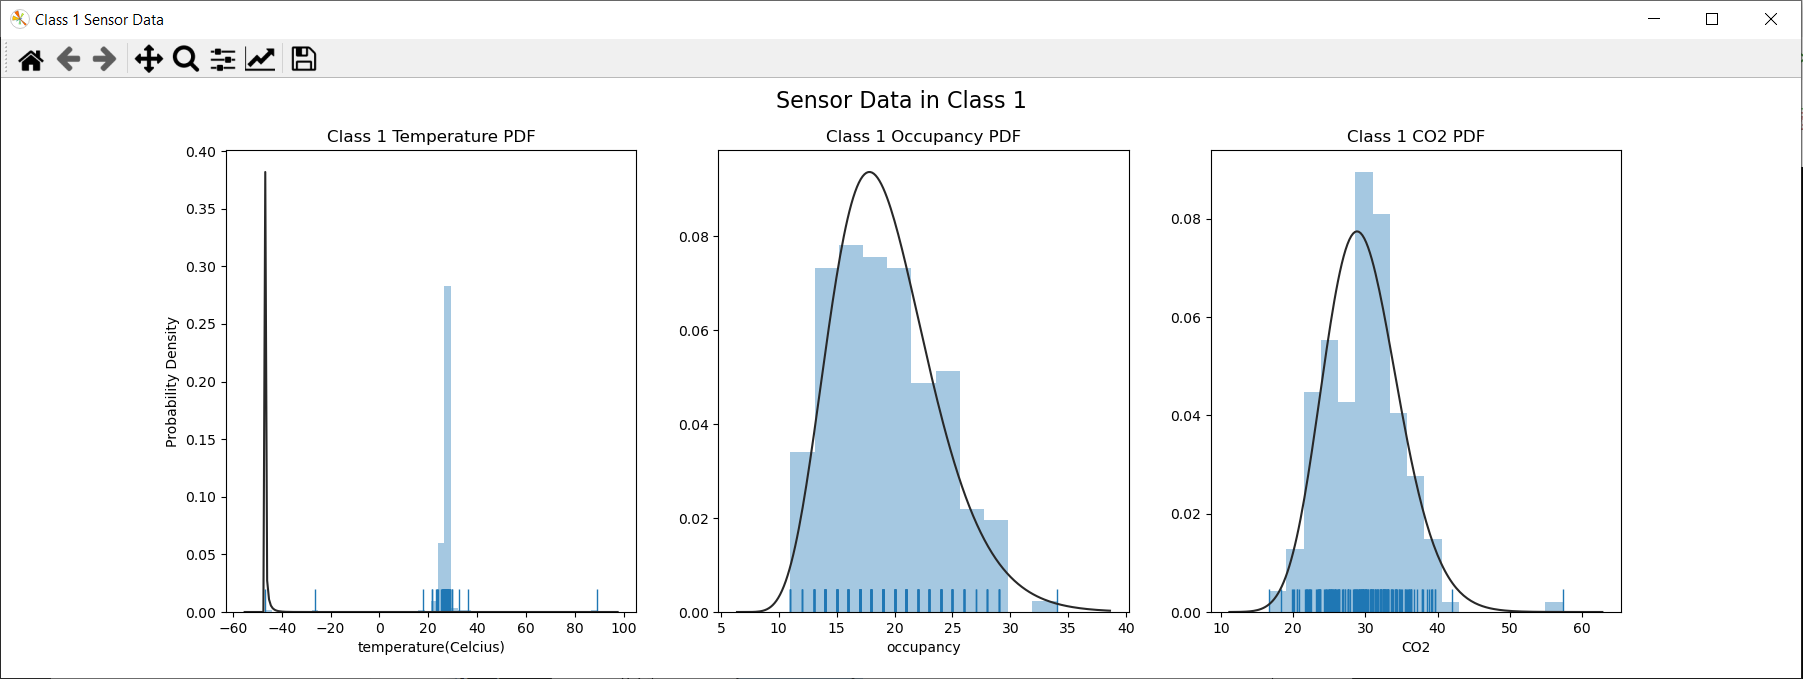
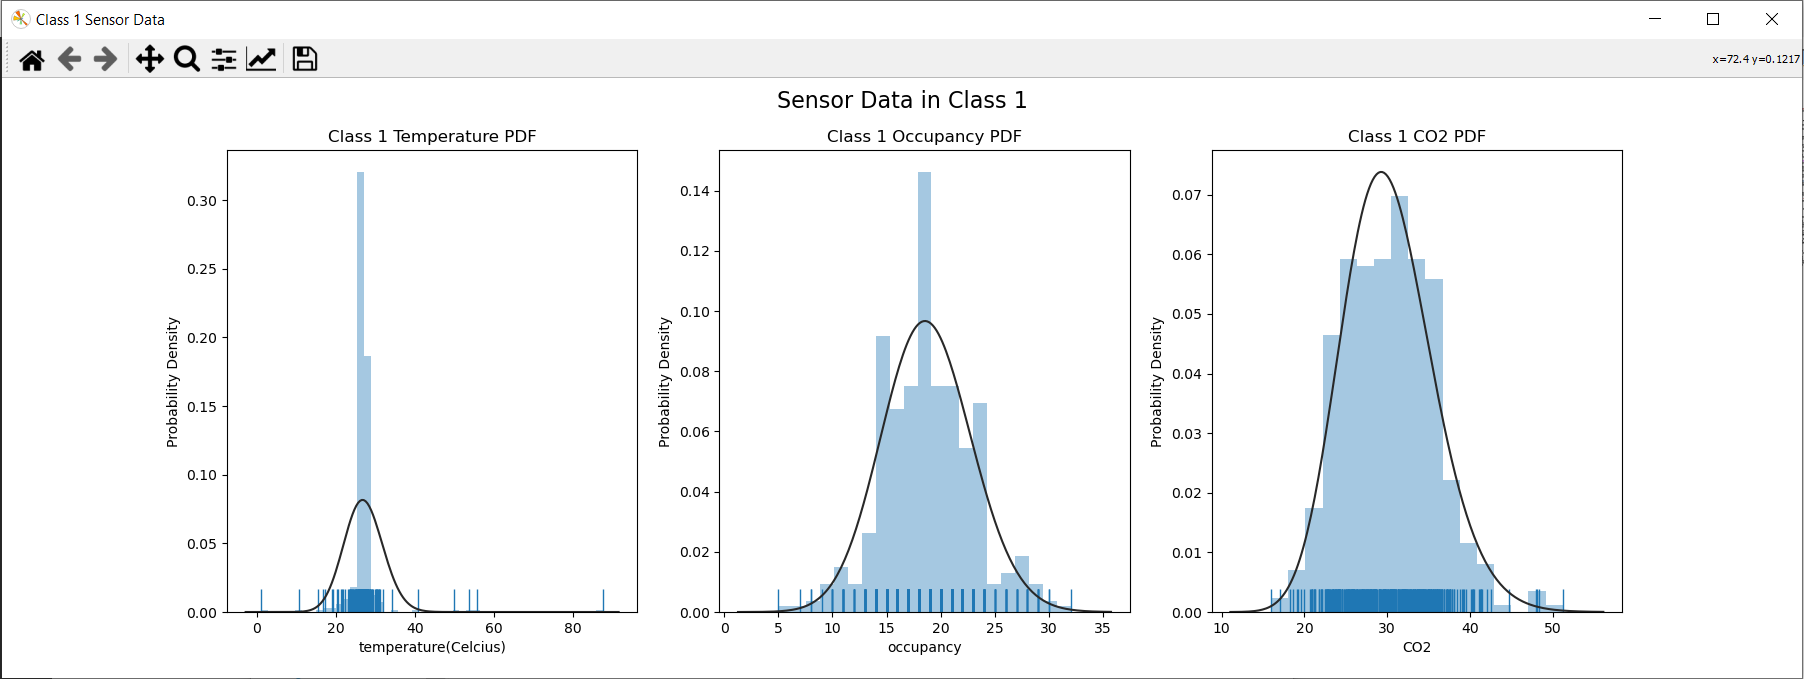
minor changes
set y labels in analyze.py
fix some typo
update report.md

diff --git a/analyze.py b/analyze.py
@@ -63,26 +63,23 @@ if __name__ == "__main__":
 
     timediff = np.diff(data["co2"].index.values).astype(np.int64) / 1000000000 # time diff in sec
 
-
     print("Median temperature in class 1: ", end='')
-    print('%5.2f' % (class1temp.median()))
+    print('%5.4f' % (class1temp.median()))
     print("Variance in temperature in class 1: ", end='')
-    print('%5.2f' % (class1temp.var()))
+    print('%5.4f' % (class1temp.var()))
     print()
     print("Median occupancy in class 1: ", end='')
-    print('%5.2f' % (class1occu.median()))
+    print('%5.4f' % (class1occu.median()))
     print("Variance in occupancy in class 1: ", end='')
-    print('%5.2f' % (class1occu.var()))
+    print('%5.4f' % (class1occu.var()))
     print()
 
     print("Median of time intervals: ", end='')
-    print('%9.4f' % (np.median(timediff)))
+    print('%5.4f' % (np.median(timediff)))
     print("Variance in time intervals: ", end='')
-    print('%9.4f' % (np.var(timediff)))
+    print('%5.4f' % (np.var(timediff)))
     print()
 
-    print("The probability density function of time intervals mimic log-normal distribution. ")
-    print("Log-normal distribution is used when analyzing stock prices and semiconductor lifetime.")
 
     # Plot PDF for sensor data in Class 1
     class1 = plt.figure("Class 1 Sensor Data", figsize=(18, 6))
@@ -95,10 +92,12 @@ if __name__ == "__main__":
 
     ax2 = class1.add_subplot(132)
     ax2.title.set_text('Class 1 Occupancy PDF')
+    ax2.set_ylabel('Probability Density')
     sns.distplot(class1occu, kde=False, fit=stats.gamma, rug=True)
 
     ax3 = class1.add_subplot(133)
     ax3.title.set_text('Class 1 CO2 PDF')
+    ax3.set_ylabel('Probability Density')
     sns.distplot(class1co2, kde=False, fit=stats.gamma, rug=True)
 
     ax1.set_xlabel('temperature(Celcius)')

diff --git a/detector.py b/detector.py
@@ -32,19 +32,19 @@ def detect_anomalies(data):
     class_std_dev= classdf.std()
     upper_limit = class_mean + class_std_dev
     lower_limit = class_mean - class_std_dev
-    class_size=len(classdf)
+    class_size = len(classdf)
 
     ibad = (classdf<lower_limit)|(classdf>upper_limit)
     classdf = classdf.loc[~ibad]
-    new_median=classdf.median()
-    new_var=classdf.var()
-    anomalies=sum(ibad)
+    new_median = classdf.median()
+    new_var = classdf.var()
+    anomalies = sum(ibad)
 
-    print("\nThe percent of \"bad\" data points for class1 is "+str((anomalies/class_size)*100)+"%")
+    print("\nThe percentage of \"bad\" data points for class1 is "+ ('%5.4f' % ((anomalies/class_size)*100))+"%")
     print("The temperature median and variance with these anomalies removed are,")
-    print("Median:"+str(new_median)+"\nVariance:"+str(new_var))
-    print("\nIn comparison the median and variance with these anomallies are,")
-    print("Median:"+str(class_median)+"\nVariance:"+str(class_var)+"\n")
+    print("Median: "+('%5.4f' % new_median)+"\nVariance: "+('%5.4f' % new_var))
+    print("\nIn comparison the median and variance with these anomalies are,")
+    print("Median: "+('%5.4f' % class_median)+"\nVariance: "+('%5.4f' % class_var))
 
 if __name__ == "__main__":
     p = argparse.ArgumentParser(description="load and analyse IoT JSON data")

diff --git a/Report.md b/Report.md
@@ -1,19 +1,69 @@
-# Task 0
-After running the Python code on our computers, the greeting string issued by the server to the client upon first connecting is "ECE Senior Capstone IoT Simulator"
-![](images/Task0image.PNG)
+# MiniProject – Sensor Simulation
+Authors: Ivan Barcenes, Yuting Chen
 
-# Task 1
-Python code was added to the websocker client that saves JSON data to a text file as it comes in message by message. The name of this file is "client_data.txt". This file was added to the repo.
-# Task 2
-# Task 3
+2020-09-17
+
+## Task 0
+After running the Python code on our computers, the greeting string issued by the server to the client upon first connecting is 
+```sh
+ECE Senior Capstone IoT simulator
+```
+<center><img src="./images/Task0image.PNG" width="70%" /></center>  
+
+
+## Task 1
+Python code was added to the websocket client that saves JSON data to a text file as it comes in message by message. The name of this file is "client_data.txt". This file was added to the repo.
+
+## Task 2
+Now we have all sensor data in "client_data.txt". We then analyze the temperature and occupancy data in class 1 by using Pandas. Then we use seaborn to plot the probability density function for the three sensors in class1.
+```sh
+----------Calculate medians and variances----------
+
+Median temperature in class 1: 26.9858
+Variance in temperature in class 1: 19.2407
+
+Median occupancy in class 1: 19.0000
+Variance in occupancy in class 1: 17.1122
+```
+![](images/SensorData.PNG)
+After that, we calculate the median and variance of time intervals of all sensor readings. Here we use Numpy, as the time index array is a ndarray. We then use seaborn to plot the probability density function. 
+```sh
+Median of time intervals: 0.6917
+Variance in time intervals: 0.9325
+```
+<center><img src="./images/timeIntervals.PNG" width="40%" /></center>  
+The probability density function of time intervals mimics log-normal distribution. Log-normal distribution is a continuous probability distribution of a random variable whose logarithm is normally distributed. It is often used when modeling stock prices and semiconductor lifetime. 
+<center><img src="./images/lognormal.jpg" width="50%" /></center> 
+<center><img src="./images/Task2image.PNG" width="70%" /></center> 
+
+
+## Task 3
 An algorithm was made using python code which which detects anomalies in tbe tempeture data from class1, and then prints out the percent of bad data. The code then deletes the bad data and prints the median and variance before and after the anomalies were removed.
-![](images/Task3image.PNG)
+```sh
+The percentage of "bad" data points for class1 is 1.6353%
+The temperature median and variance with these anomalies removed are,
+Median: 26.9937
+Variance: 0.9509
+
+In comparison the median and variance with these anomalies are,
+Median: 26.9858
+Variance: 19.2407
+``` 
+
 Analyzing the data in the text file generated in Task 1 we see that when an anomally occurs the subsqequent sensor readings are reasonable. If this this simulation where a real sensor, however I think this data would indicate a failed sensor since the data at times comes in within seconds of each other so I would not expext the temperature of a classroom to fluctuate as much as it does. While there are relatively few anomalies, the data does fluctuate about the median, usually by about 5 degrees give or take.
 
 There are three different room types for data is collected and they are "class1", "lab1", and office. Under the assumption that the temperature data is read in degrees celcius, I would say that reasonable bounds for temperature readings of each room are:        
-Class1: 15-30 degrees celcius     ---    This a typical range of temperatures which could be in a classroom, depending on seasonal weather.   
-Lab1: 15-25 degrees celcius       ---    The temperature  is typical for a lab, with less room for fluctuation for tempetaure sensitive lab work.   
-Office: 15-30 degrees celcius     ---    Like the class, this is typical range of an office with depending on the seasonal weather.
-# Task 4
+- **Class1**: 15-30 degrees celcius     ---    This a typical range of temperatures which could be in a classroom, depending on seasonal weather.   
+- **Lab1**: 15-25 degrees celcius       ---    The temperature  is typical for a lab, with less room for fluctuation for tempetaure sensitive lab work.   
+- **Office**: 15-30 degrees celcius     ---    Like the class, this is typical range of an office with depending on the seasonal weather.
+
+<center><img src="./images/Task3image.PNG" width="70%" /></center> 
+
+## Task 4
 1. This simulation is reflective of the real-world because many sensors use websocket comunication to relay data. In many cases this data is saved and analyzed and checked for anomalies. Sensors are not perfect, so there will be variability in sensor readings like in this simulation.
 2. This simulation is defficient in that some of the data is not realistic, as the data for temperature, occupancy, and co2 fluctuates significantly in a short period of time. Realistically a sensore will sends information less frequently, and ideally without as much fluctuation. Another area in which the simulation is defiecient is that there is a high level in precision in the temperature and co2 data. Being that the data fluctuates the data is probably not that accurate and so the data can be sent with 2 or 3 decimal places. This would improve readability.
+3. Intepreted vs Compiled
+4. Better to have sensors reach out when having data
+
+## References
+- [The Lognormal Distribution vs. the Normal Distribution](https://analystprep.com/cfa-level-1-exam/quantitative-methods/lognormal-distribution/)
